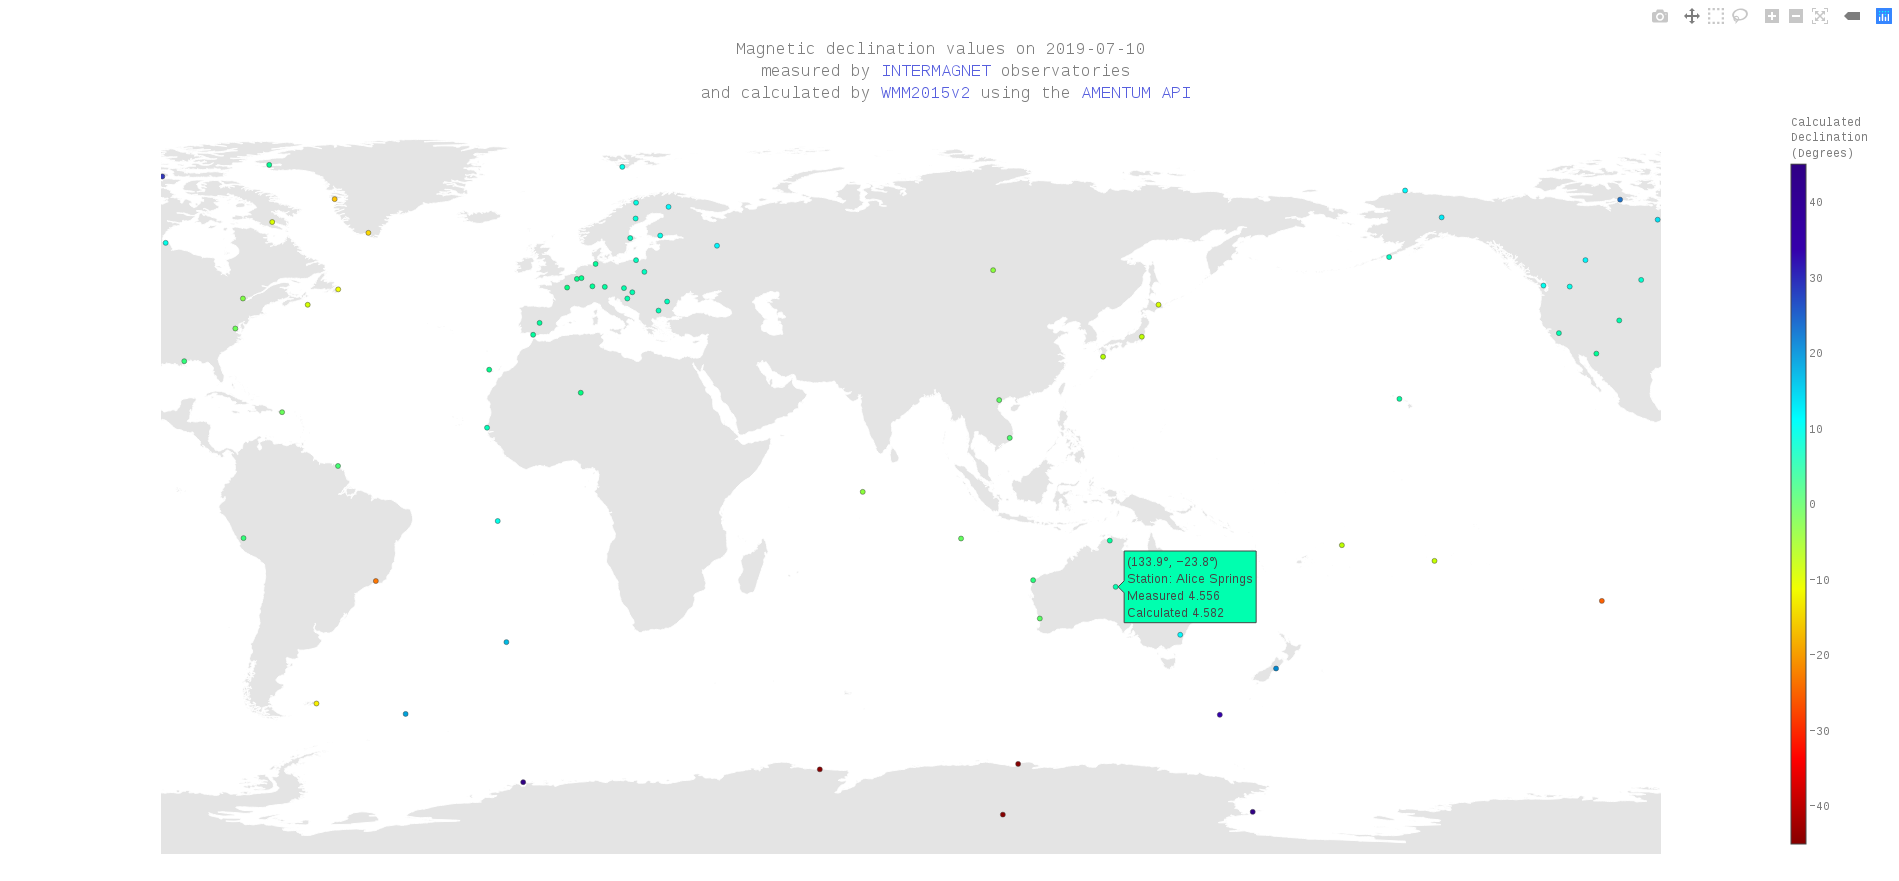
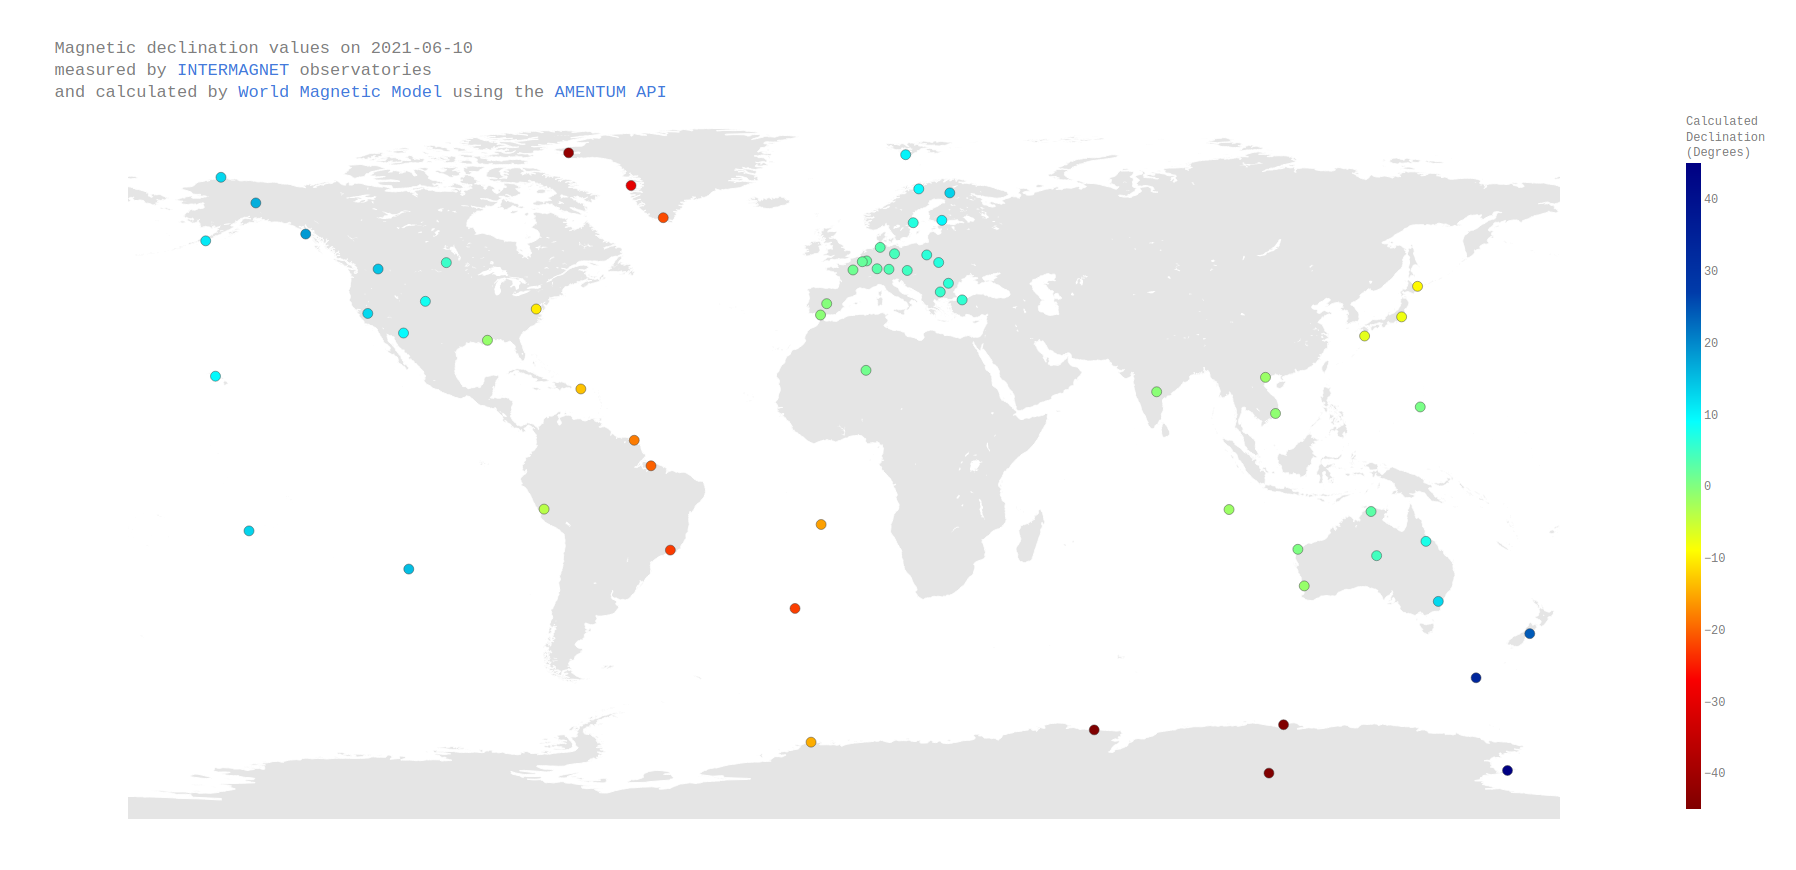
updated observatory example to use API as well

diff --git a/observatory/analysis.py b/observatory/analysis.py
@@ -14,6 +14,23 @@ parser.add_argument('--iaga_dir', dest='iaga_dir', action='store',
     help='Directory containing IAGA 2002 formatted data files for INTERMAG network ',
     default='data/')
 
+
+parser.add_argument(
+    "--host",
+    dest="host",
+    action="store",
+    help="Alternative host for testing (e.g. on-premises API server)",
+    default="https://geomag.amentum.io",
+)
+
+parser.add_argument(
+    "--api_key",
+    dest="api_key",
+    action="store",
+    help="valid API key obtained from https://developer.amentum.io",
+    default=""    
+)
+
 args = parser.parse_args()
 
 # get all the filenames in the data directory
@@ -32,8 +49,7 @@ df_global = pd.DataFrame(columns=[
     "declination", "uncertainty", "declination_api"
 ])
 
-hostname = "https://globalmagnet.amentum.space/api/calculate_magnetic_field"
-hostname = "http://localhost:5000/api/calculate_magnetic_field"
+hostname = args.host + "/wmm/magnetic_field"
 
 for filename in filenames: 
 
@@ -44,10 +60,7 @@ for filename in filenames:
     with open(args.iaga_dir+'/'+filename) as myfile : 
         for i, myline in enumerate(myfile): 
             # ignore lines with poudn sign in them
-            if '#' in myline : 
-                pass
-            # we are at the end of the header, so break loop
-            elif myline.split()[0] == 'DATE':
+            if myline.split()[0] == 'DATE':
                 break
             # otherwise parse header entry into KV pair
             else : 
@@ -133,16 +146,24 @@ for filename in filenames:
     # convert to kms
     altitude = float(altitude)/1000
 
-    payload = dict(
+    params = dict(
         altitude = altitude, # [km]
         longitude = longitude, # [deg]
         latitude = latitude,
         year = decimal_year
     )
+    headers = {
+        "API-Key" : args.api_key
+    }
 
     try: 
-        response = requests.get(hostname, params=payload)
+        response = requests.get(hostname, params=params, headers=headers)
+        response.raise_for_status()
+    except requests.exceptions.HTTPError as e:
+        print(response.json())
+        print(e.args)
     except requests.exceptions.RequestException as e:
+        print(response.json())
         print(e.args)
 
     response_json = response.json()

diff --git a/observatory/README.md b/observatory/README.md
@@ -33,7 +33,7 @@ Before running the script, ensure you have installed the Python module dependenc
 
 Run the script from the command line with 
 
-    python analysis.py --iaga_dir <path_to_iaga_files>
+    python analysis.py --iaga_dir <path_to_iaga_files> --api_key <your_api_key>
 
 The script will then execute and launch a browser window with an interactive graph. Roll the mouse cursor over an observatory marker to view measured and calculated values of magnetic declination for that date at the longitude and latitude indicated. 
 
@@ -48,4 +48,4 @@ Figure 1: Screenshot of interactive plot produced by the Python script.
 The results presented in this document rely on data collected at magnetic observatories. We thank the national institutes that support them and INTERMAGNET for promoting high standards of magnetic observatory practice (www.intermagnet.org).
 
 
-Copyright 2020 [Amentum Aerospace](https://amentum.space), Australia
+Copyright 2021 [Amentum Aerospace](https://amentum.space), Australia
